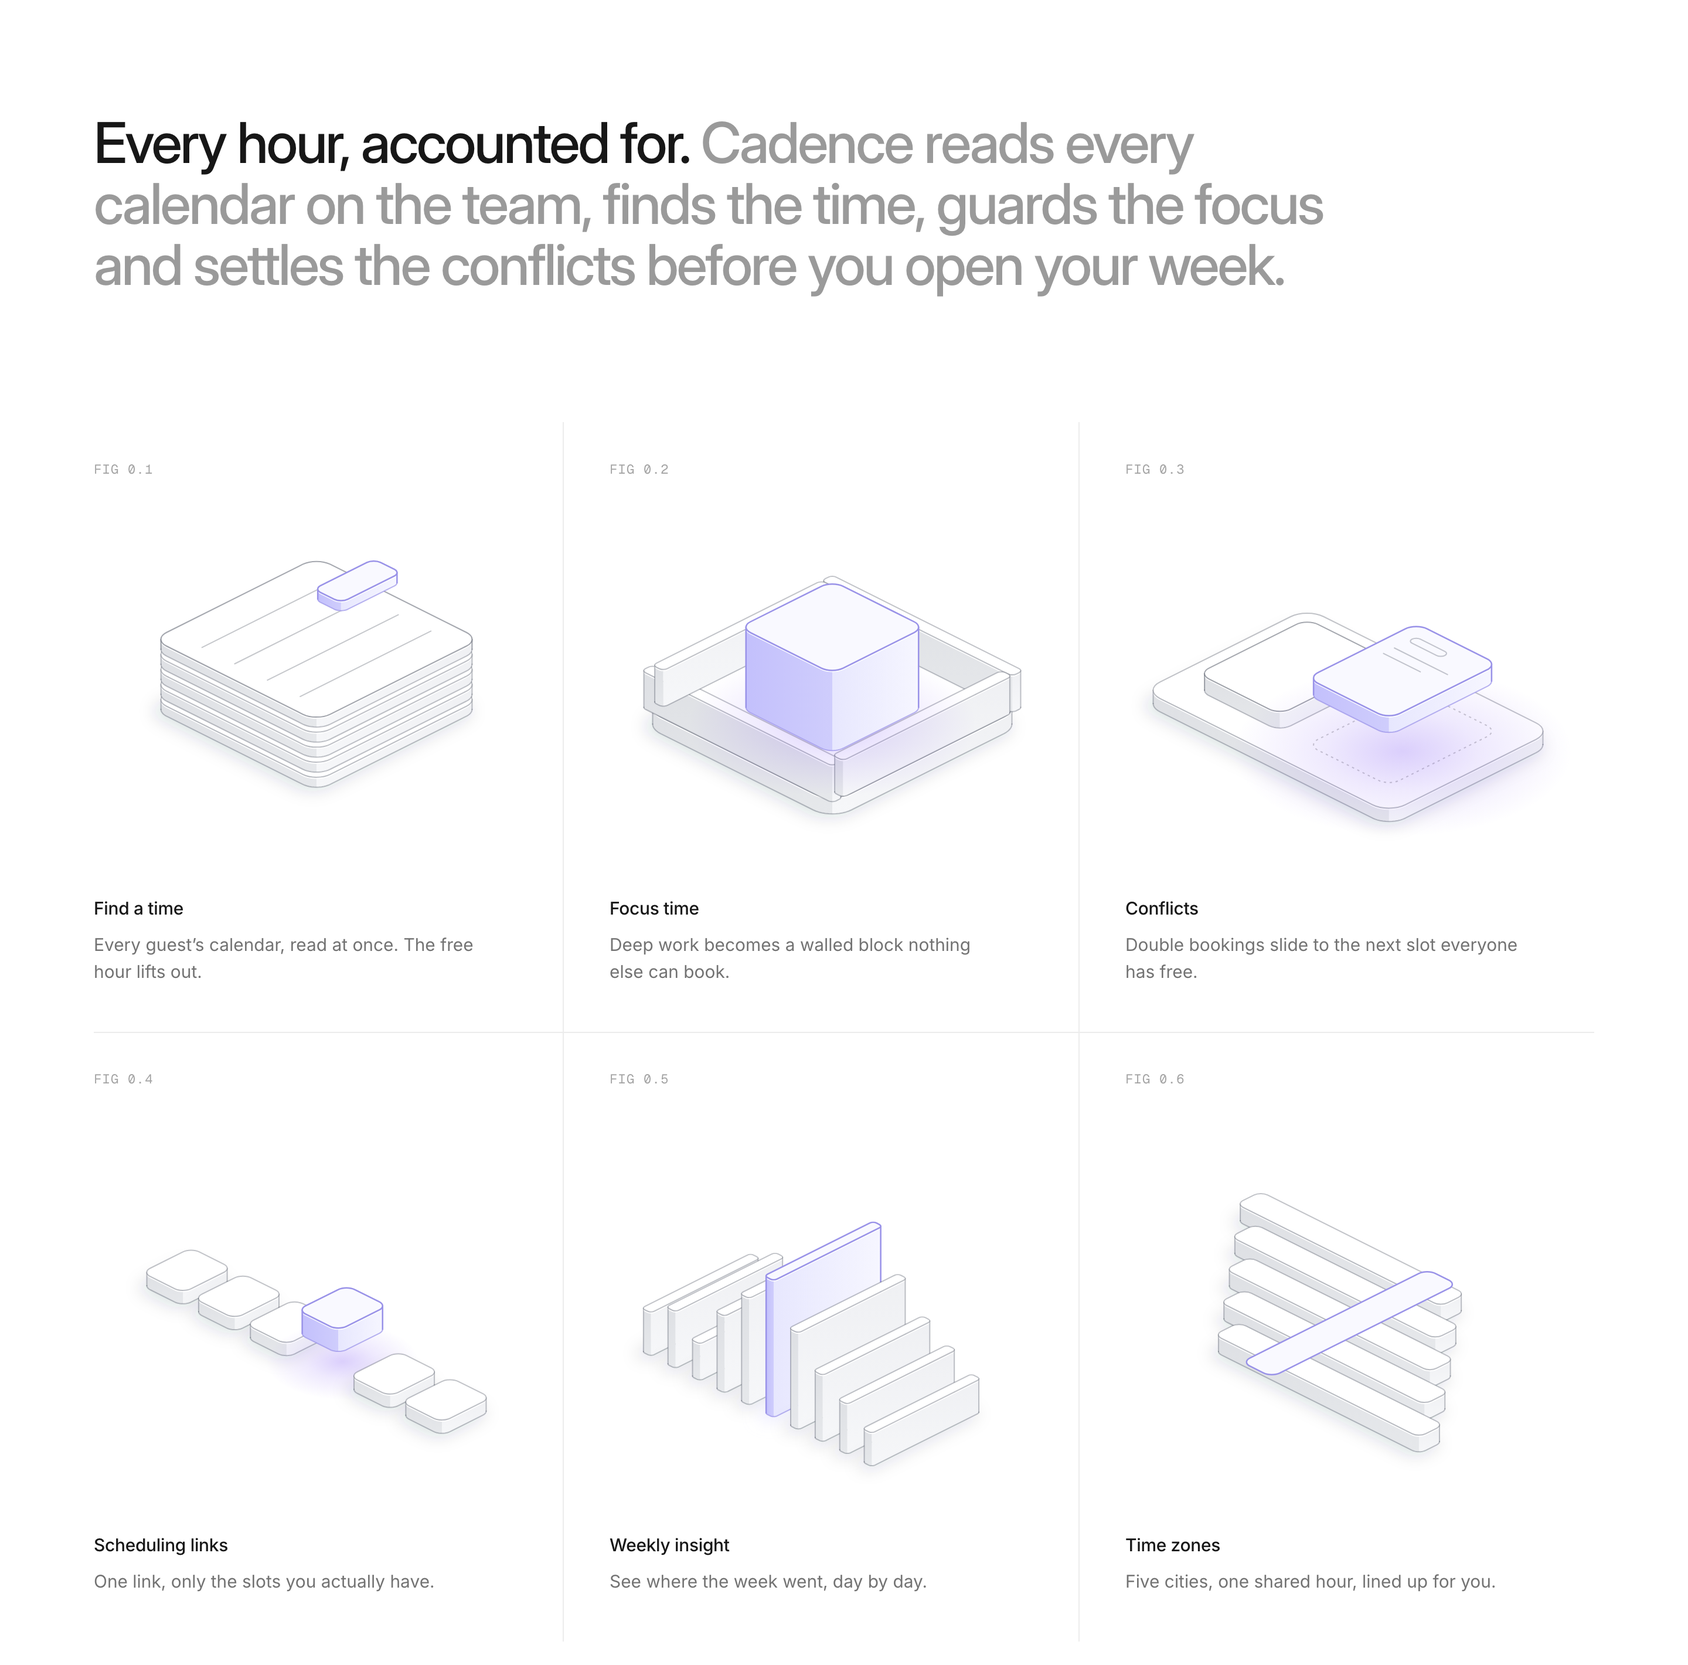
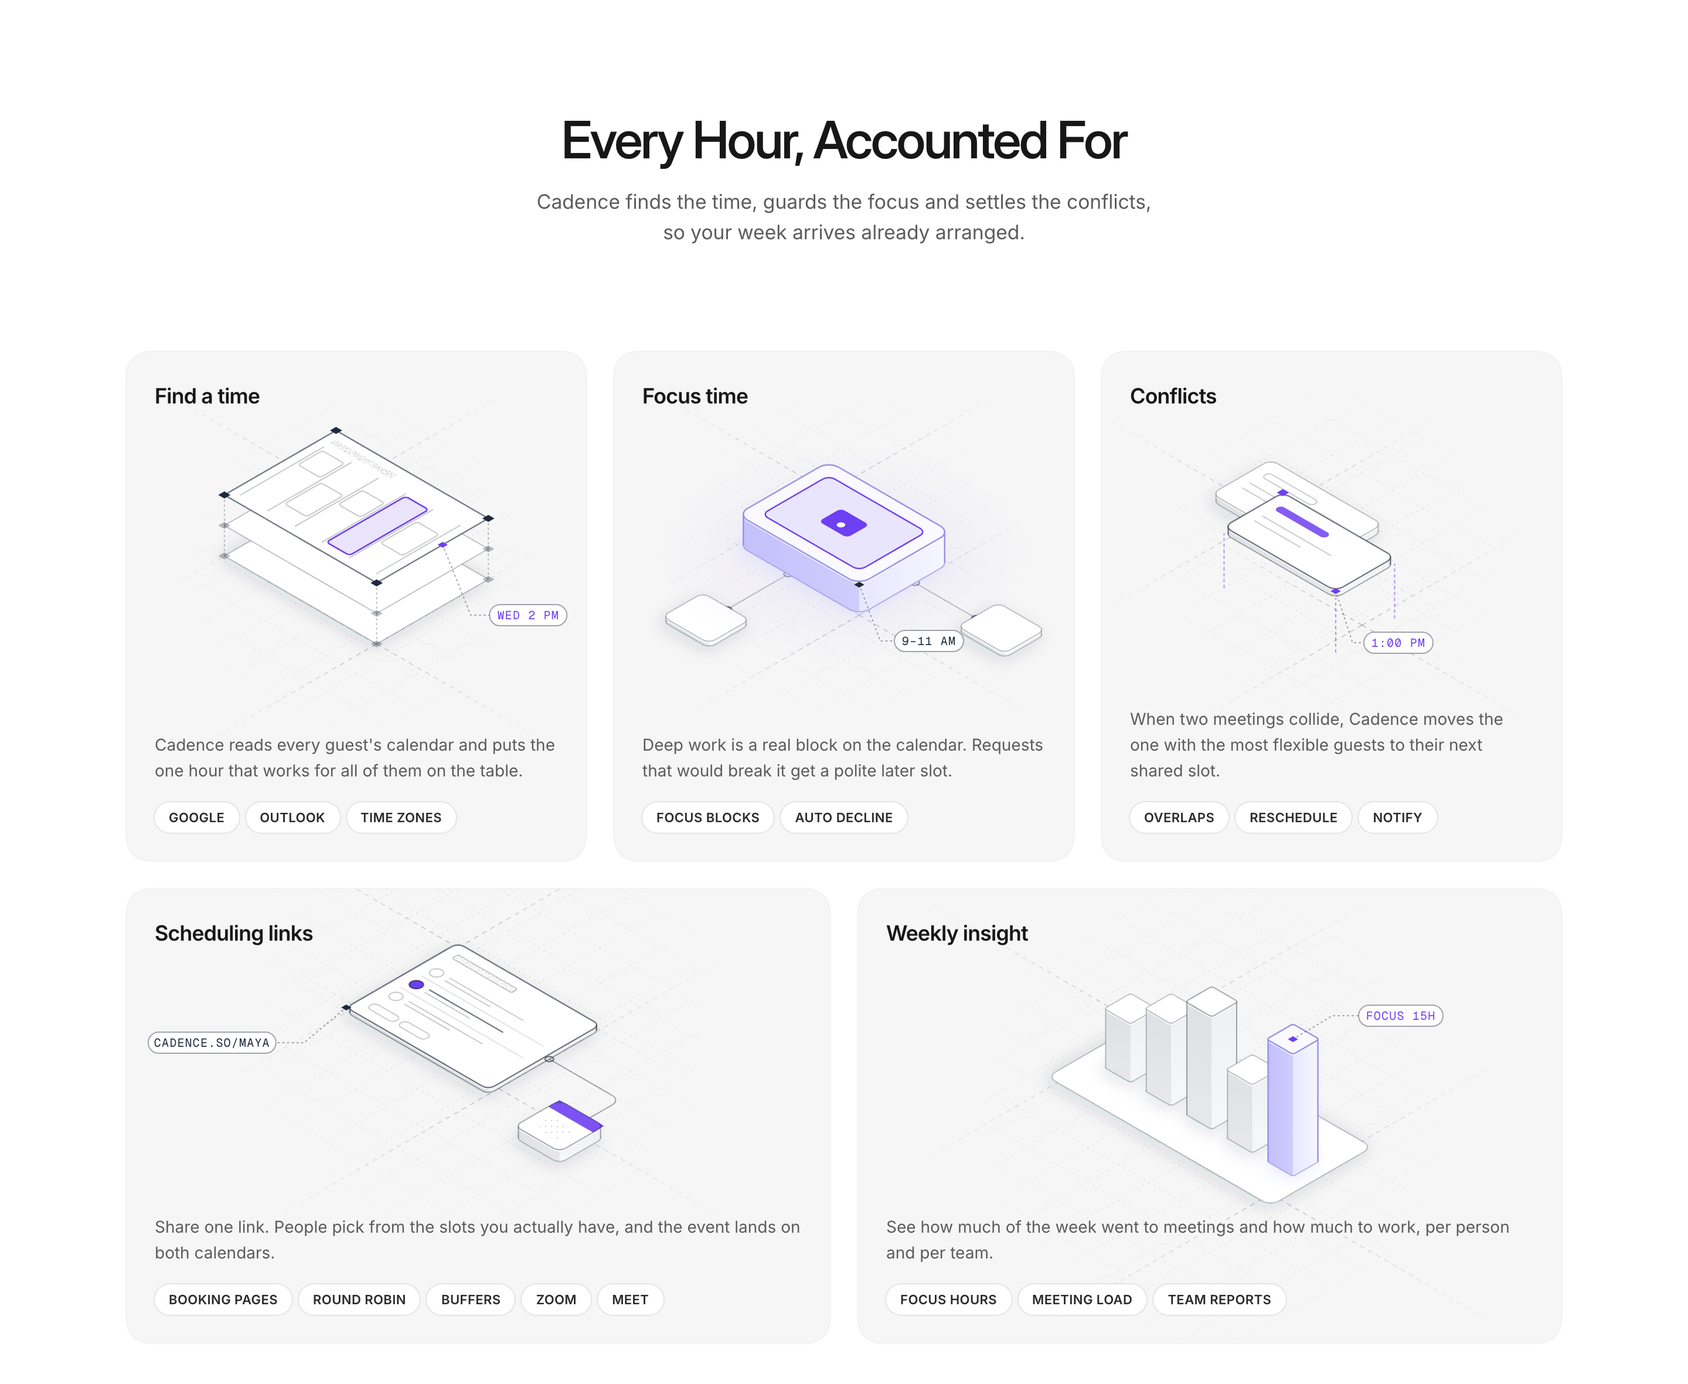
Cadence bento: back to the loved Kargul-grammar cells, now with subtle measured shading; founder rule against abstract geometry

diff --git a/work/replicas/app/src/Bento.tsx b/work/replicas/app/src/Bento.tsx
@@ -1,128 +1,181 @@
-// Cadence feature section v5, replicate-first from Linear's figure triptych
-// (knowledge/benchmarks/bento/linear-fig-triptych.png): a two-tone statement headline, then columns split by 1px
-// hairlines, each with a mono FIG label, ONE quiet object drawn in 2:1 dimetric with a single hairline weight and white
-// faces shaded by the measured ramp (ISO-19..30), the answer in a violet tint family with a soft glow, and a small title + muted line at the bottom. The idea is carried by
-// the geometry alone: the raised piece is the answer. Light mode. Sample content.
+// Cadence bento v4: Kargul's services-bento grammar drawn with the engine's iso kit (system/iso, rules ISO-01..18 in
+// knowledge/web/isometric-line-art.md): true 30deg isometric, every point projected in code so strokes stay exact,
+// one stroke ladder (focal / primary / secondary / detail / guide), hatched shade faces, grain lit faces, diamond
+// nodes, dotted leaders with mono-caps pills, guides fading to the cell edge. One violet fill per cell, on the answer.
 import type { ReactNode } from 'react'
-import { IsoScene, Plate, useIso, useStroke, topPlane, planeRoundRect, polyPath } from './iso'
+import { IsoScene, IsoGrid, GuideLines, Plate, Stack, Tower, Node, Callout, Connector, Card, Texture, useIso, useStroke, topPlane, planeRoundRect, planeCircle, polyPath, type Plane } from './iso'
 
-const INK = '#171717'
-const Scene = ({ children, y = 150 }: { children: ReactNode; y?: number }) => (
-  <IsoScene width={400} height={360} mode="shaded-light" kind="dimetric" scale={1.3} accent="#6e3ff3" origin={{ x: 200, y: y * 1.25 }}>{children}</IsoScene>
-)
+const INK = '#171717', V = '#6e3ff3'
 
-function Lines({ x, y, z, w, n = 2 }: { x: number; y: number; z: number; w: number; n?: number }) {
-  const { P } = useIso(); const s = useStroke('detail')
-  const pl = topPlane(x, y, z)
-  return <g><path d={planeRoundRect(P, pl, 10, 10, w * 0.4, 6, 3)} {...s} />{Array.from({ length: n }, (_, i) => <path key={i} d={polyPath(P, [[x + 10, y + 26 + i * 8, z], [x + 10 + w * (i ? 0.45 : 0.65), y + 26 + i * 8, z]])} {...s} />)}</g>
+/** event rows on a calendar face: grain title bar + n hairline rows, one row optionally violet */
+function CalFace({ pl, w, d, cols = 5, accentCol }: { pl: Plane; w: number; d: number; cols?: number; accentCol?: number }) {
+  const { P, T } = useIso()
+  const s = useStroke('detail')
+  const cw = (w - 16) / cols
+  const out: ReactNode[] = []
+  out.push(<Texture key="bar" d={planeRoundRect(P, pl, 8, 8, w * 0.4, 6, 0)} kind="grain" opacity={0.6} />)
+  for (let c = 0; c <= cols; c++) out.push(<path key={'v' + c} d={polyPath(P, [[pl.o[0] + 8 + c * cw, pl.o[1] + 20, pl.o[2]], [pl.o[0] + 8 + c * cw, pl.o[1] + d - 8, pl.o[2]]])} {...s} />)
+  // busy blocks: deterministic pattern
+  const busy = [[0, 0, 2], [1, 2, 3], [2, 1, 2], [3, 0, 1], [3, 3, 2], [4, 1, 3]]
+  busy.forEach(([c, r, len], i) => {
+    if (c === accentCol) return
+    out.push(<path key={'b' + i} d={planeRoundRect(P, pl, 8 + c * cw + 2.5, 24 + r * 14, cw - 5, len * 12, 2.5)} {...s} fill={T.top} />)
+  })
+  if (accentCol !== undefined) out.push(<path key="acc" d={planeRoundRect(P, pl, 8 + accentCol * cw + 2, 22, cw - 4, d - 32, 3)} fill={V} fillOpacity={0.14} stroke={V} strokeWidth={1.25} />)
+  return <g>{out}</g>
 }
 
-function FigFind() {
-  const W = 120, D = 120
+function ArtFind() {
   return (
-    <Scene y={140}>
-      {[0, 1, 2, 3, 4].map((i) => <Plate key={i} at={[-W / 2, -D / 2, i * 9]} w={W} d={D} h={6} r={10} level={i === 4 ? 'primary' : 'secondary'} sides="shaded" edgeHighlight />)}
-      <WeekGrid z={42} />
-      <Plate at={[-6, -48, 62]} w={20} d={44} h={6} r={5} level="focal" sides="shaded" edgeHighlight tone="tint" />
-    </Scene>
-  )
-}
-function WeekGrid({ z }: { z: number }) {
-  const { P } = useIso(); const s = useStroke('detail')
-  return <g>{[1, 2, 3, 4].map((c) => <path key={c} d={polyPath(P, [[-60 + c * 24, -48, z], [-60 + c * 24, 48, z]])} {...s} />)}</g>
-}
-
-function FigFocus() {
-  return (
-    <Scene y={150}>
-      <Plate at={[-70, -70, 0]} w={140} d={140} h={10} r={14} level="secondary" sides="shaded" edgeHighlight />
-      {[[-70, -70, 140, 8], [-70, 62, 140, 8], [-70, -62, 8, 124], [62, -62, 8, 124]].map(([x, y, w, d], i) => <Plate key={i} at={[x, y, 10]} w={w} d={d} h={22} r={3} level="secondary" sides="shaded" edgeHighlight />)}
-      <Plate at={[-34, -34, 10]} w={68} d={68} h={48} r={8} level="focal" sides="shaded" edgeHighlight tone="tint" glow={0.25} />
-    </Scene>
+    <IsoScene width={392} height={262} mode="shaded-light" accent={V} origin={{ x: 196, y: 140 }} edgeFade={0}>
+      <IsoGrid cells={10} step={30} style="dotted" />
+      <GuideLines through={[[-75, -55, 0], [75, 55, 0]]} reach={170} />
+      <Stack at={[-75, -55, 0]} w={150} d={110} layers={3} gap={26} thickness={0} connectors
+        content={(i) => (i === 2 ? <CalFace pl={topPlane(-75, -55, 52)} w={150} d={110} accentCol={3} /> : null)} />
+      <Callout at={[75, -10, 52]} dx={40} dy={60} label="WED 2 PM" tone="accent" />
+    </IsoScene>
   )
 }
 
-function FigConflict() {
-  return (
-    <Scene y={150}>
-      <Plate at={[-90, -60, 0]} w={180} d={120} h={8} r={12} level="secondary" sides="shaded" edgeHighlight />
-      <Plate at={[-70, -40, 8]} w={60} d={80} h={10} r={8} level="primary" sides="shaded" edgeHighlight />
-      <Ghost />
-      <Plate at={[10, -40, 38]} w={60} d={80} h={10} r={8} level="focal" sides="shaded" edgeHighlight tone="tint" glow={0.25}><Lines x={10} y={-40} z={48} w={60} n={2} /></Plate>
-    </Scene>
-  )
-}
-function Ghost() {
+function Lock({ at }: { at: [number, number, number] }) {
   const { P } = useIso()
-  return <path d={planeRoundRect(P, topPlane(10, -40, 8), 0, 0, 60, 80, 8)} fill="none" stroke="rgba(17,17,17,0.22)" strokeDasharray="2 3" />
-}
-
-function FigLinks() {
+  const [x, y, z] = at
   return (
-    <Scene y={160}>
-      {[0, 1, 2, 3, 4, 5].map((i) => {
-        const on = i === 3
-        return <Plate key={i} at={[-110 + i * 38, -18, on ? 18 : 0]} w={30} d={36} h={on ? 14 : 8} r={6} level={on ? 'focal' : 'secondary'} tone={on ? 'tint' : 'neutral'} glow={on ? 0.25 : undefined} sides="shaded" edgeHighlight />
-      })}
-    </Scene>
+    <g>
+      <path d={planeRoundRect(P, topPlane(x - 14, y - 11, z), 0, 0, 28, 22, 4)} fill={V} />
+      <path d={planeCircle(P, topPlane(x, y + 3, z), 0, 0, 3)} fill="#fff" />
+    </g>
+  )
+}
+function ArtFocus() {
+  return (
+    <IsoScene width={392} height={262} mode="shaded-light" accent={V} origin={{ x: 196, y: 128 }} edgeFade={0}>
+      <IsoGrid cells={10} step={30} style="dotted" />
+      <GuideLines through={[[-60, -45, 0], [60, 45, 0]]} reach={170} />
+      <Connector points={[[60, -10, 0], [120, -10, 0]]} level="secondary" endNodes />
+      <Connector points={[[-10, 45, 0], [-10, 105, 0]]} level="secondary" endNodes />
+      <Plate at={[122, -30, 0]} w={46} d={40} h={4} r={6} level="secondary" />
+      <Plate at={[-32, 107, 0]} w={46} d={40} h={4} r={6} level="secondary" />
+      <Plate at={[-60, -45, 0]} w={120} d={90} h={26} r={10} level="focal" sides="shaded" edgeHighlight tone="tint" glow={0.1}>
+        <FocusFace />
+      </Plate>
+      <Callout at={[60, 45, 26]} dx={30} dy={48} label="9–11 AM" />
+    </IsoScene>
+  )
+}
+function FocusFace() {
+  const { P } = useIso()
+  const pl = topPlane(-60, -45, 26)
+  return (
+    <g>
+      <path d={planeRoundRect(P, pl, 12, 12, 96, 66, 6)} fill={V} fillOpacity={0.1} stroke={V} strokeWidth={1.25} />
+      <Lock at={[0, 0, 26]} />
+    </g>
   )
 }
 
-function FigInsight() {
-  const H = [26, 34, 22, 46, 64, 82, 58, 40, 30, 20]
+function ArtConflict() {
   return (
-    <Scene y={190}>
-      {H.map((h, i) => <Plate key={i} at={[-100 + i * 18, -40, 0]} w={7} d={80} h={h} r={2.5} level={i === 5 ? 'focal' : 'secondary'} tone={i === 5 ? 'tint' : 'neutral'} sides="shaded" edgeHighlight />)}
-    </Scene>
+    <IsoScene width={392} height={262} mode="shaded-light" accent={V} origin={{ x: 196, y: 134 }} edgeFade={0}>
+      <IsoGrid cells={10} step={30} style="dotted" />
+      <GuideLines through={[[-70, -10, 0], [70, 40, 0]]} reach={170} />
+      <Plate at={[-110, -50, 0]} w={110} d={58} h={6} r={7} level="secondary">
+        <SlotLines x={-110} y={-50} z={6} w={110} />
+      </Plate>
+      {/* the moved one, lifted, dashed drops to its old footprint */}
+      <path d="" />
+      <Drops />
+      <Plate at={[-30, 18, 46]} w={110} d={58} h={6} r={7} level="focal" shadow={0}>
+        <SlotLines x={-30} y={18} z={52} w={110} accent />
+      </Plate>
+      <Node at={[-30, 18, 52]} tone="accent" />
+      <Callout at={[80, 76, 52]} dx={24} dy={44} label="1:00 PM" tone="accent" />
+    </IsoScene>
+  )
+}
+function Drops() {
+  const { P } = useIso()
+  const s = useStroke('secondary')
+  const c: [number, number][] = [[-30, 18], [80, 18], [80, 76], [-30, 76]]
+  return <path d={c.map(([x, y]) => polyPath(P, [[x, y, 0], [x, y, 46]])).join(' ')} {...s} stroke={V} strokeOpacity={0.55} strokeDasharray="2 3" />
+}
+function SlotLines({ x, y, z, w, accent }: { x: number; y: number; z: number; w: number; accent?: boolean }) {
+  const { P } = useIso()
+  const s = useStroke('detail')
+  const pl = topPlane(x, y, z)
+  return (
+    <g>
+      <path d={planeRoundRect(P, pl, 10, 12, w * 0.45, 7, 3.5)} fill={accent ? V : undefined} fillOpacity={accent ? 0.85 : undefined} {...(accent ? {} : s)} />
+      <path d={polyPath(P, [[x + 10, y + 30, z], [x + w * 0.7, y + 30, z]])} {...s} />
+      <path d={polyPath(P, [[x + 10, y + 38, z], [x + w * 0.5, y + 38, z]])} {...s} />
+    </g>
   )
 }
 
-function FigZones() {
+function ArtLink() {
   return (
-    <Scene y={150}>
-      {[0, 1, 2, 3, 4].map((i) => <Plate key={i} at={[-80 + (i - 2) * 22, -60 + i * 26, 0]} w={150} d={18} h={10} r={5} level="secondary" sides="shaded" edgeHighlight />)}
-      <Plate at={[-6, -64, 10]} w={22} d={136} h={0} r={6} level="focal" sides="shaded" edgeHighlight tone="tint" />
-    </Scene>
+    <IsoScene width={600} height={240} mode="shaded-light" accent={V} origin={{ x: 300, y: 70 }} edgeFade={0}>
+      <IsoGrid cells={14} step={30} style="dotted" />
+      <GuideLines through={[[-70, -50, 0], [70, 50, 0]]} reach={230} />
+      <Card at={[-70, -50, 0]} w={140} d={110} rows={3} highlight={1} chips={2} />
+      <Connector points={[[70, 0, 0], [140, 0, 0], [140, 40, 0]]} radius={8} level="primary" endNodes />
+      <Plate at={[120, 40, 0]} w={44} d={44} h={10} r={6} level="primary">
+        <CalTile />
+      </Plate>
+      <Callout at={[-70, 60, 4]} dx={-60} dy={30} label="CADENCE.SO/MAYA" />
+    </IsoScene>
+  )
+}
+function CalTile() {
+  const { P } = useIso()
+  const pl = topPlane(120, 40, 10)
+  return <g><path d={planeRoundRect(P, pl, 0, 0, 44, 11, 0)} fill={V} fillOpacity={0.9} /><Texture d={planeRoundRect(P, pl, 10, 18, 24, 18, 3)} kind="dots" /></g>
+}
+
+function ArtInsight() {
+  const days: [number, number][] = [[50, 0], [70, 0], [96, 0], [58, 0], [104, 1]]
+  return (
+    <IsoScene width={600} height={240} mode="shaded-light" accent={V} origin={{ x: 300, y: 150 }} edgeFade={0}>
+      <IsoGrid cells={14} step={30} style="dotted" />
+      <GuideLines through={[[-100, -40, 0], [100, 40, 0]]} reach={230} />
+      <Plate at={[-110, -50, 0]} w={220} d={100} h={0} r={8} level="secondary" />
+      {days.map(([h, on], i) => <Tower key={i} at={[-90 + i * 40, -12, 0]} size={26} h={h} level={on ? 'focal' : i === 2 ? 'primary' : 'secondary'} tone={on ? 'tint' : 'neutral'} sides="shaded" />)}
+      <Callout at={[83, 1, 104]} dx={56} dy={-20} label="FOCUS 15H" tone="accent" />
+    </IsoScene>
   )
 }
 
-const FIGS: [string, string, string, () => React.JSX.Element][] = [
-  ['0.1', 'Find a time', 'Every guest’s calendar, read at once. The free hour lifts out.', FigFind],
-  ['0.2', 'Focus time', 'Deep work becomes a walled block nothing else can book.', FigFocus],
-  ['0.3', 'Conflicts', 'Double bookings slide to the next slot everyone has free.', FigConflict],
-  ['0.4', 'Scheduling links', 'One link, only the slots you actually have.', FigLinks],
-  ['0.5', 'Weekly insight', 'See where the week went, day by day.', FigInsight],
-  ['0.6', 'Time zones', 'Five cities, one shared hour, lined up for you.', FigZones],
-]
+function Cell({ w, h, title, body, chips, art, artTop = 44 }: { w: number; h: number; title: string; body: string; chips: string[]; art: ReactNode; artTop?: number }) {
+  return (
+    <div className="relative overflow-hidden rounded-[24px]" style={{ width: w, height: h, background: '#f6f6f6', boxShadow: '0 0 0 1px rgb(0 0 0 / 0.05)' }}>
+      <div className="absolute left-6 top-6 text-[18px] font-[600] tracking-[-0.02em]">{title}</div>
+      <div className="absolute inset-x-0 flex justify-center" style={{ top: artTop }}>{art}</div>
+      <div className="absolute inset-x-6 bottom-6">
+        <p className="text-[14px] leading-[22px]" style={{ color: '#5c5c5c' }}>{body}</p>
+        <div className="mt-4 flex flex-wrap gap-1.5">{chips.map((c) => <span key={c} className="flex h-[26px] items-center rounded-full bg-white px-3 text-[11px] font-[600] tracking-[0.02em]" style={{ boxShadow: '0 0 0 1px rgb(0 0 0 / 0.07)', color: '#2a2a2a' }}>{c}</span>)}</div>
+      </div>
+    </div>
+  )
+}
 
 export default function Bento() {
-  const col = (i: number) => {
-    const [n, t, b, F] = FIGS[i]
-    return (
-      <div key={n} className="relative w-[400px] pt-8" style={{ height: 520 }}>
-        <div className="font-mono text-[11px] tracking-[0.06em]" style={{ color: '#a3a3a3' }}>FIG {n}</div>
-        <div className="absolute inset-x-0 top-[70px] -ml-5 flex justify-center"><F /></div>
-        <div className="absolute bottom-10 left-0 w-[340px]">
-          <div className="text-[15px] font-[500] tracking-[-0.01em]">{t}</div>
-          <div className="mt-2 text-[15px] leading-[23px]" style={{ color: '#737373' }}>{b}</div>
+  return (
+    <div className="relative" style={{ width: 1440, height: 1180, background: '#ffffff', fontFamily: '"Inter Variable", system-ui, sans-serif', fontFeatureSettings: '"cv11", "ss01"', color: INK }}>
+      <div className="absolute inset-x-0 top-[96px] text-center">
+        <h2 className="text-[44px] font-[550] leading-[1.06] tracking-[-0.04em]">Every Hour, Accounted For</h2>
+        <p className="mx-auto mt-4 text-[17px] leading-[26px]" style={{ color: '#5c5c5c' }}>Cadence finds the time, guards the focus and settles the conflicts,<br />so your week arrives already arranged.</p>
+      </div>
+      <div className="absolute left-[108px] top-[300px] flex flex-col gap-6">
+        <div className="flex gap-6">
+          <Cell w={392} h={434} title="Find a time" art={<ArtFind />} body="Cadence reads every guest's calendar and puts the one hour that works for all of them on the table." chips={['GOOGLE', 'OUTLOOK', 'TIME ZONES']} />
+          <Cell w={392} h={434} title="Focus time" art={<ArtFocus />} body="Deep work is a real block on the calendar. Requests that would break it get a polite later slot." chips={['FOCUS BLOCKS', 'AUTO DECLINE']} />
+          <Cell w={392} h={434} title="Conflicts" art={<ArtConflict />} body="When two meetings collide, Cadence moves the one with the most flexible guests to their next shared slot." chips={['OVERLAPS', 'RESCHEDULE', 'NOTIFY']} />
+        </div>
+        <div className="flex gap-6">
+          <Cell w={600} h={387} title="Scheduling links" art={<ArtLink />} artTop={40} body="Share one link. People pick from the slots you actually have, and the event lands on both calendars." chips={['BOOKING PAGES', 'ROUND ROBIN', 'BUFFERS', 'ZOOM', 'MEET']} />
+          <Cell w={600} h={387} title="Weekly insight" art={<ArtInsight />} artTop={40} body="See how much of the week went to meetings and how much to work, per person and per team." chips={['FOCUS HOURS', 'MEETING LOAD', 'TEAM REPORTS']} />
         </div>
       </div>
-    )
-  }
-  return (
-    <div className="relative" style={{ width: 1440, height: 1420, background: '#ffffff', fontFamily: '"Inter Variable", system-ui, sans-serif', fontFeatureSettings: '"cv11", "ss01"', color: INK }}>
-      <h2 className="absolute left-[80px] top-[96px] w-[1180px] text-[48px] font-[500] leading-[1.08] tracking-[-0.035em]">
-        Every hour, accounted for. <span style={{ color: '#9a9a9a' }}>Cadence reads every calendar on the team, finds the time, guards the focus and settles the conflicts before you open your week.</span>
-      </h2>
-      {[0, 1].map((r) => (
-        <div key={r} className="absolute left-[80px] flex" style={{ top: 360 + r * 520, boxShadow: r ? 'inset 0 1px 0 #ececec' : undefined }}>
-          {[0, 1, 2].map((c) => (
-            <div key={c} className="flex" style={{ paddingLeft: c ? 40 : 0, boxShadow: c ? 'inset 1px 0 0 #ececec' : undefined }}>
-              {col(r * 3 + c)}
-            </div>
-          ))}
-        </div>
-      ))}
     </div>
   )
 }

diff --git a/knowledge/founder/founder-taste.md b/knowledge/founder/founder-taste.md
@@ -521,3 +521,6 @@ Every rule here is a direct founder verdict on real output. It outranks books, w
 - **RULE** [founder] For feature/bento line art, Linear is the bar ("check linear, they do it good enough"): a two-tone statement headline, columns split by 1px hairlines with mono FIG labels, ONE quiet object per column in 2:1 dimetric, every edge the same 1px hairline (~36% ink on white), white faces, no hatch, grain, nodes, guides, callouts or colour; the idea is told by geometry alone (the raised or lifted piece is the answer); small title + muted line at the bottom. Kit: `system/iso` with `mode="hairline" kind="dimetric"`.
   **Why** Founder after the Kargul-grammar v4 with callouts, hatch and violet: "check linear cmon they do it good enough, not u".
   **Applies to** feature sections and bentos with iso art. **Check** one stroke weight in the art; zero fills other than white; no accent colour. **Source** founder, Cadence, 2026-10-21
+- **RULE** [founder] Do not abstract the bento into meaningless geometry: Linear-style slabs, combs and bars with shading ("interesting yet stupid and not nice at all") lose to the Kargul-grammar cells that draw the product's own objects (calendar layers, the focus block, the moved meeting, the booking card, the day towers) with callouts that name the answer. Take precision and restraint from Linear, but keep the subject from the product; shading stays subtle (tint families, low glow), never a saturated solid block.
+  **Why** Founder on the shaded Linear-style figures, 2026-10-21.
+  **Applies to** bento and feature art. **Check** every figure is recognisably the product's own object and names its answer. **Source** founder, Cadence, 2026-10-21
